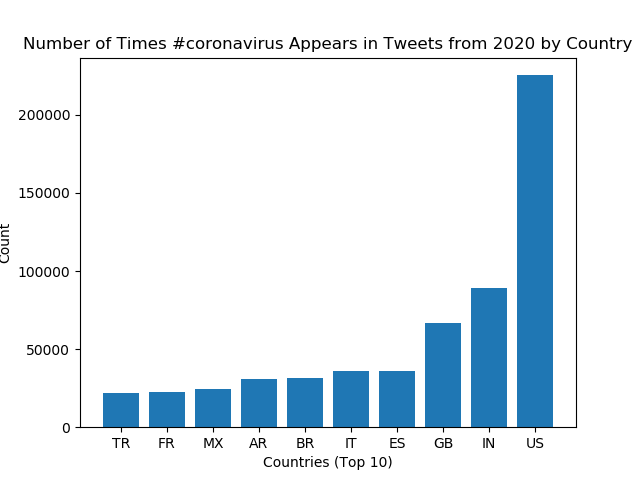
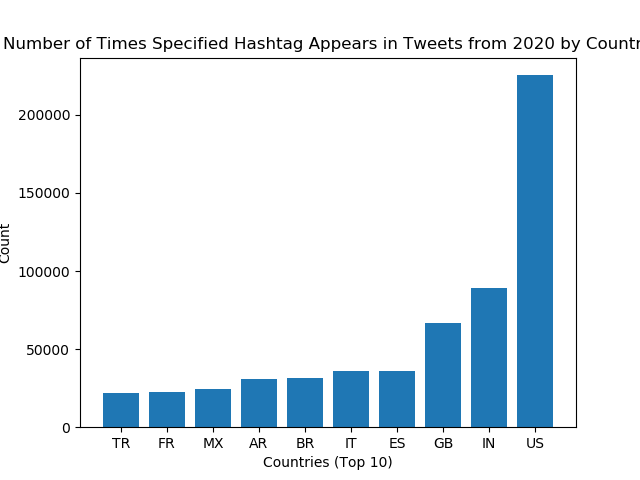
clean up and final graphs for task 3

Changed region(s): [[0.0, 0.0625, 1.0, 0.125]]

diff --git a/src/visualize.py b/src/visualize.py
@@ -29,11 +29,6 @@ for k,v in items:
     pass
     # print(k,':',v)
 
-# set up font that works with chinese characters
-font_name = "STKaiti"
-plt.rcParams['font.family']=font_name
-plt.rcParams['axes.unicode_minus']=False
-
 # plot bar graphs
 items = items[0:10]
 items.reverse()
@@ -48,10 +43,9 @@ plt.ylabel("Count")
 
 if args.input_path == "reduced.country":
     plt.xlabel("Countries (Top 10)")
-    plt.title("Number of Times " + args.key + " Appears in Tweets from 2020 by Country")
+    plt.title("Number of Times Specified Hashtag Appears in Tweets from 2020 by Country")
     plt.savefig('country' + args.key + '.png')
 elif args.input_path == "reduced.lang":
     plt.xlabel("Languages (Top 10)")
-    plt.title("Number of Times " + args.key + " Appears in Tweets from 2020 by Language")
+    plt.title("Number of Times Specified Hashtag Appears in Tweets from 2020 by Language")
     plt.savefig('lang' + args.key + '.png')
-# install font that works with asian characters for title issue or just put it the readme
